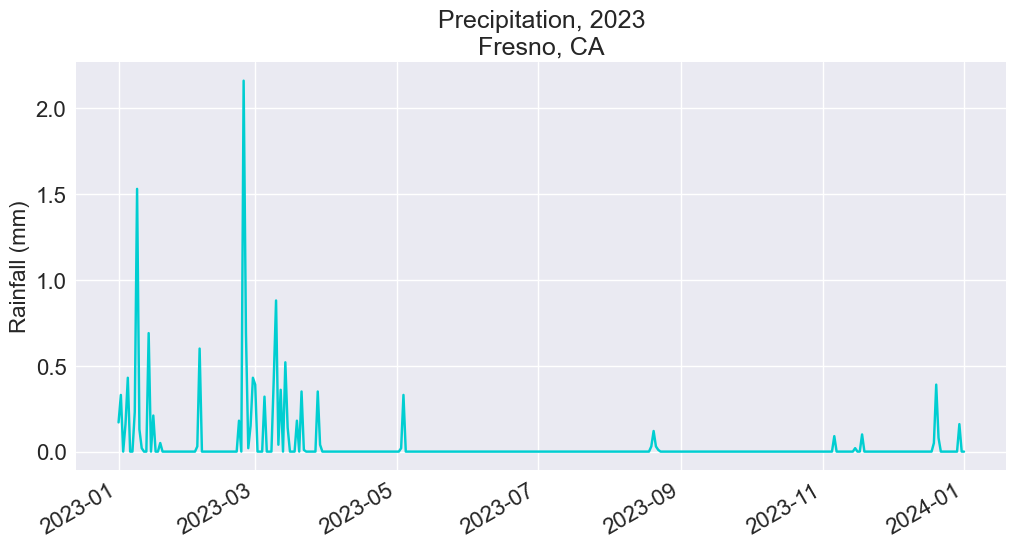
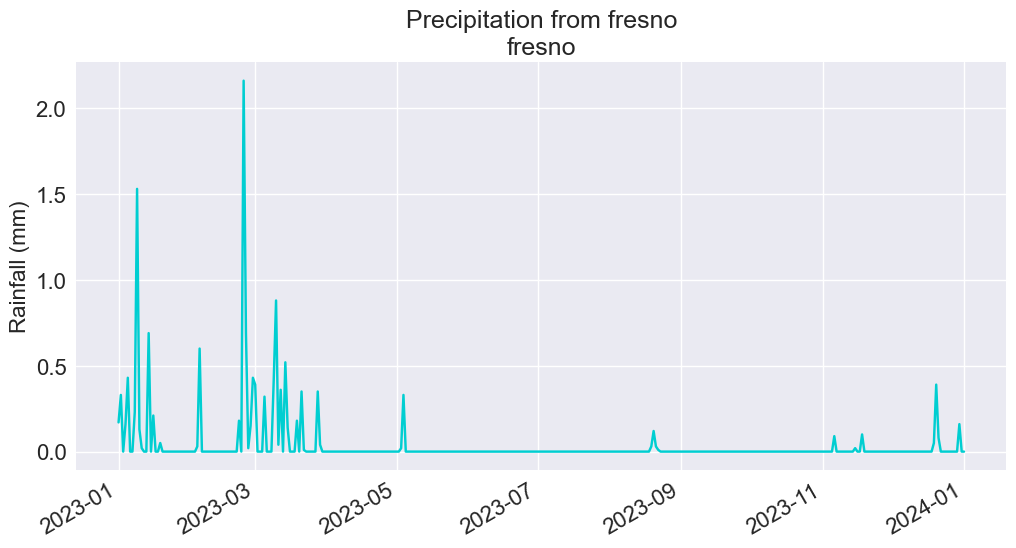
Add interaction with user

Changed region(s): [[0.3967, 0.0, 0.6713, 0.1241]]

diff --git a/precipitation_visualization.py b/precipitation_visualization.py
@@ -6,14 +6,16 @@ import matplotlib.pyplot as plt
 
 def save_figure():
     while True:
-        save_prompt = ("Would you like to save a copy of the figure? (y/n)\n"
+        save_prompt = ("Would you like a copy of the figure?\n"
                     "> ")
         save_answer = input(save_prompt).lower()
 
-        if save_answer == 'y':
+        if save_answer == 'y' or save_answer == 'yes':
             plt.savefig(f'figures/{file_name}.png', bbox_inches='tight')
+            print(f"\n---------- {file_name}.png has been saved in 'figures'. "
+                  "----------\n") 
             break
-        elif save_answer == 'n':
+        elif save_answer == 'n' or save_answer == 'no':
             break
         else:
             print("Incorrect answer.")
@@ -23,7 +25,7 @@ def visualization(dates, prcps, loc, year):
     fig, ax = plt.subplots(figsize=(12, 6))
     ax.plot(dates, prcps, color='darkturquoise')
 
-    ax.set_title(f"Precipitation, {year}"
+    ax.set_title(f"Precipitation from {year}"
                 f"\n{loc}", fontsize=18)
     ax.set_xlabel('', fontsize=16)
     fig.autofmt_xdate()
@@ -31,6 +33,7 @@ def visualization(dates, prcps, loc, year):
     ax.tick_params(labelsize=16)
 
     save_figure()
+    print("\n---------- Currently viewing figure... ----------\n")
     plt.show()
 
 def data_extract(reader):
@@ -46,7 +49,7 @@ def data_extract(reader):
             prcps.append(prcp)
     location = input("Please enter the location of this data.\n"
                         "> ")
-    year = input("Please enter the year of this data.\n"
+    year = input("Please enter the timeframe of this data.\n"
                     "> ")
     visualization(dates, prcps, location, year)
 
@@ -56,10 +59,14 @@ def collect_index(header, string):
         if column_header == string:
             return index
 
+print("---------------------------")
+print("Precipitation Visualization")
+print("---------------------------")
+
 intro = ("This program shows a visual representation of precipitation "
          "in a given area from a user's CSV file.")
 instruction = ("\nMake sure the CSV file is stored in the "
-               "data folder.")
+               "'./precipitation_visualization/data' folder.")
 
 print(intro, instruction)
 
@@ -71,7 +78,9 @@ path = Path(f'data/{file_name}.csv')
 try:
     lines = path.read_text(encoding='utf-8').splitlines()
 except FileNotFoundError:
-    print(f"The file {file_name}.csv is not in the data folder.")
+    print(f"\nThe file {file_name}.csv can not be found.\nPlease make "
+          "sure that the file is in the folder and that the file is "
+          "spelled correctly.")
 else:
     reader = csv.reader(lines)
     header_row = next(reader)
@@ -79,8 +88,12 @@ else:
     date_index = collect_index(header_row, 'DATE')
     prcp_index = collect_index(header_row, 'PRCP')
 
+    print("\n---------- Collecting data... ----------\n")
     if not date_index or not prcp_index:
-        print("Error")
+        print("\nWas unable to find the precipitation data "
+              "for that file.\n"
+              "Please check the file for the precipitation (PRCP) "
+              "and its date (DATE).")
     else:
         data_extract(reader)
 
